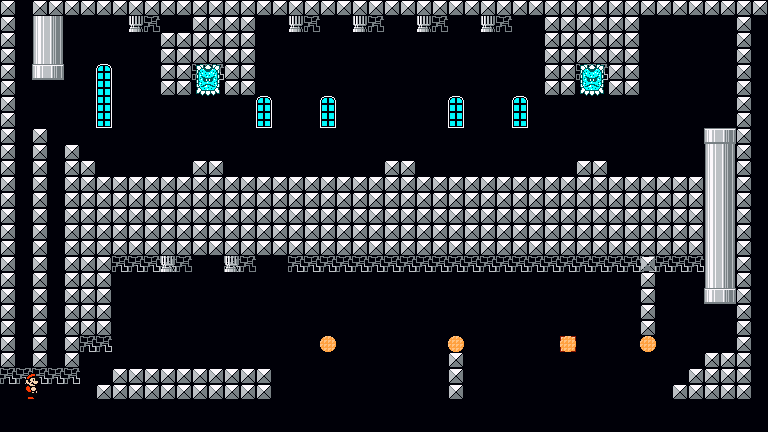
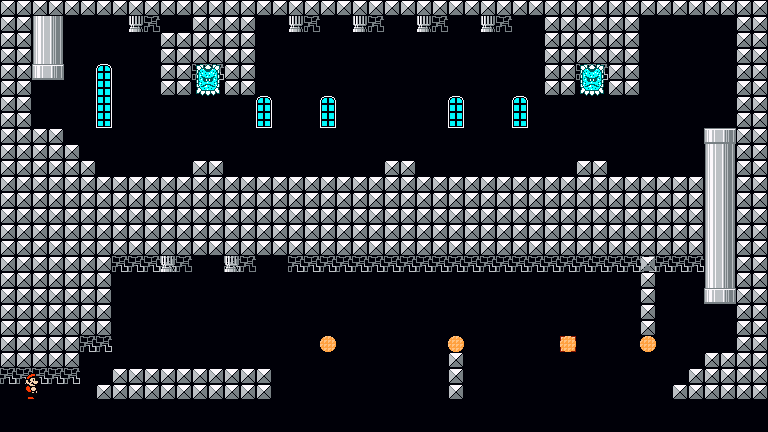
fix drawing for VERTICAL 4 byte objects

Changed region(s): [[0.0, 0.0, 0.0938, 0.8727], [0.9688, 0.0301, 1.0, 0.9329]]

diff --git a/foundry/game/gfx/objects/LevelObject.py b/foundry/game/gfx/objects/LevelObject.py
@@ -449,10 +449,15 @@ class LevelObject(ObjectLike):
             new_width = self.width
 
             if self.ending == UNIFORM:
+                if self.is_4byte:
+                    # there is one VERTICAL 4-byte object: Vertically oriented X-blocks
+                    # the width is the primary expansion
+                    new_width = (self.obj_index & 0x0F) + 1
+
                 for _ in range(new_height):
-                    for x in range(self.width):
+                    for x in range(new_width):
                         for y in range(self.height):
-                            blocks_to_draw.append(self.blocks[x])
+                            blocks_to_draw.append(self.blocks[x % self.width])
 
             elif self.ending == END_ON_TOP_OR_LEFT:
                 # in case the drawn object is smaller than its actual size
